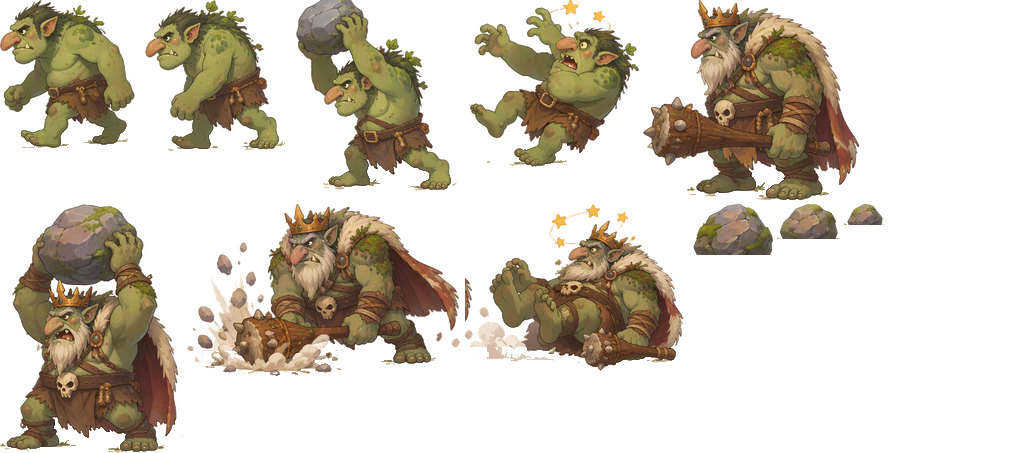
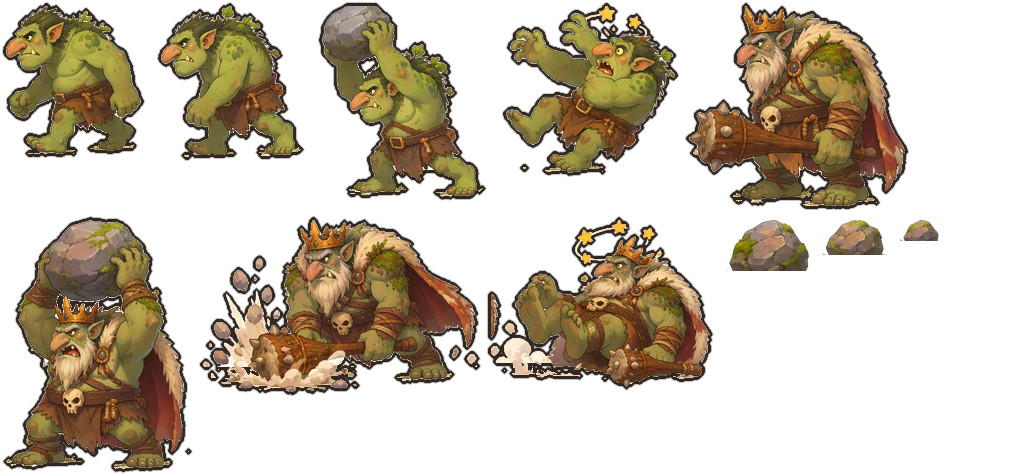
Add files via upload

diff --git a/index.html b/index.html
@@ -129,7 +129,7 @@
         const ctx = canvas.getContext('2d');
 
         // Bei jeder Änderung hochzählen – steht klein unten rechts im Hauptmenü
-        const SPIEL_VERSION = '3.1 (Trolle)';
+        const SPIEL_VERSION = '3.2 (Trolle mit Kontur)';
 
         // Ältere Browser (z. B. Firefox auf Fire-Tablets) kennen roundRect noch nicht.
         // Ohne diese Ergänzung bricht das Zeichnen der Knöpfe ab.
@@ -2334,7 +2334,7 @@
         function zeichneFels(f) {
             if (trollAtlas.bereit && f.r > 0) {
                 const [x, y, b, h] = TROLL_TEILE[f.r >= 16 ? 'fels_mittel' : 'fels_klein'];
-                const bb = f.r * 2.5, hh = bb * h / b;
+                const bb = f.r * 2.5 * b / (b - 2 * TROLL_RAND), hh = bb * h / b;
                 ctx.save();
                 ctx.translate(f.x, f.y);
                 ctx.rotate(f.drehung);
@@ -2415,7 +2415,8 @@
         }
 
         // ----- Trolle als Bilder (trolle.png), sonst Code-Zeichnung -----
-        const TROLL_TEILE = {"gehenA": [0, 0, 141, 148], "gehenB": [145, 0, 147, 151], "werfen": [296, 0, 170, 191], "getroffen": [470, 0, 169, 167], "k_stehen": [643, 0, 216, 200], "k_werfen": [0, 204, 183, 249], "k_stampfen": [187, 204, 274, 172], "k_getroffen": [465, 204, 221, 167], "fels_gross": [690, 204, 83, 51], "fels_mittel": [777, 204, 63, 35], "fels_klein": [844, 204, 40, 21]};
+        const TROLL_TEILE = {"gehenA": [0, 0, 153, 160], "gehenB": [155, 0, 159, 163], "werfen": [316, 0, 182, 203], "getroffen": [500, 0, 181, 179], "k_stehen": [683, 0, 228, 212], "k_werfen": [0, 214, 195, 261], "k_stampfen": [197, 214, 286, 184], "k_getroffen": [485, 214, 233, 179], "fels_gross": [720, 214, 95, 63], "fels_mittel": [817, 214, 75, 47], "fels_klein": [894, 214, 52, 33]};
+        const TROLL_RAND = 6;   // Rand um jede Pose (für die dunkle Kontur)
         const trollAtlas = { bild: new Image(), bereit: false };
         trollAtlas.bild.onload = () => { trollAtlas.bereit = true; };
         if (location.protocol.startsWith('http')) trollAtlas.bild.src = 'trolle.png';
@@ -2426,7 +2427,17 @@
             const bb = b * massstab, hh = h * massstab;
             ctx.save();
             ctx.globalAlpha *= alpha == null ? 1 : alpha;
-            ctx.drawImage(trollAtlas.bild, x, y, b, h, fussX - bb / 2, fussY - hh, bb, hh);
+            // Schatten am Boden, damit sich die Figur von der Wiese abhebt
+            const sb = (b - 2 * TROLL_RAND) * massstab * 0.42;
+            const schatten = ctx.createRadialGradient(fussX, fussY, 1, fussX, fussY, sb);
+            schatten.addColorStop(0, 'rgba(20, 15, 8, 0.55)');
+            schatten.addColorStop(1, 'rgba(20, 15, 8, 0)');
+            ctx.fillStyle = schatten;
+            ctx.beginPath();
+            ctx.ellipse(fussX, fussY, sb, sb * 0.22, 0, 0, Math.PI * 2);
+            ctx.fill();
+            const rand = TROLL_RAND * massstab;
+            ctx.drawImage(trollAtlas.bild, x, y, b, h, fussX - bb / 2, fussY - hh + rand, bb, hh);
             ctx.restore();
         }
 
